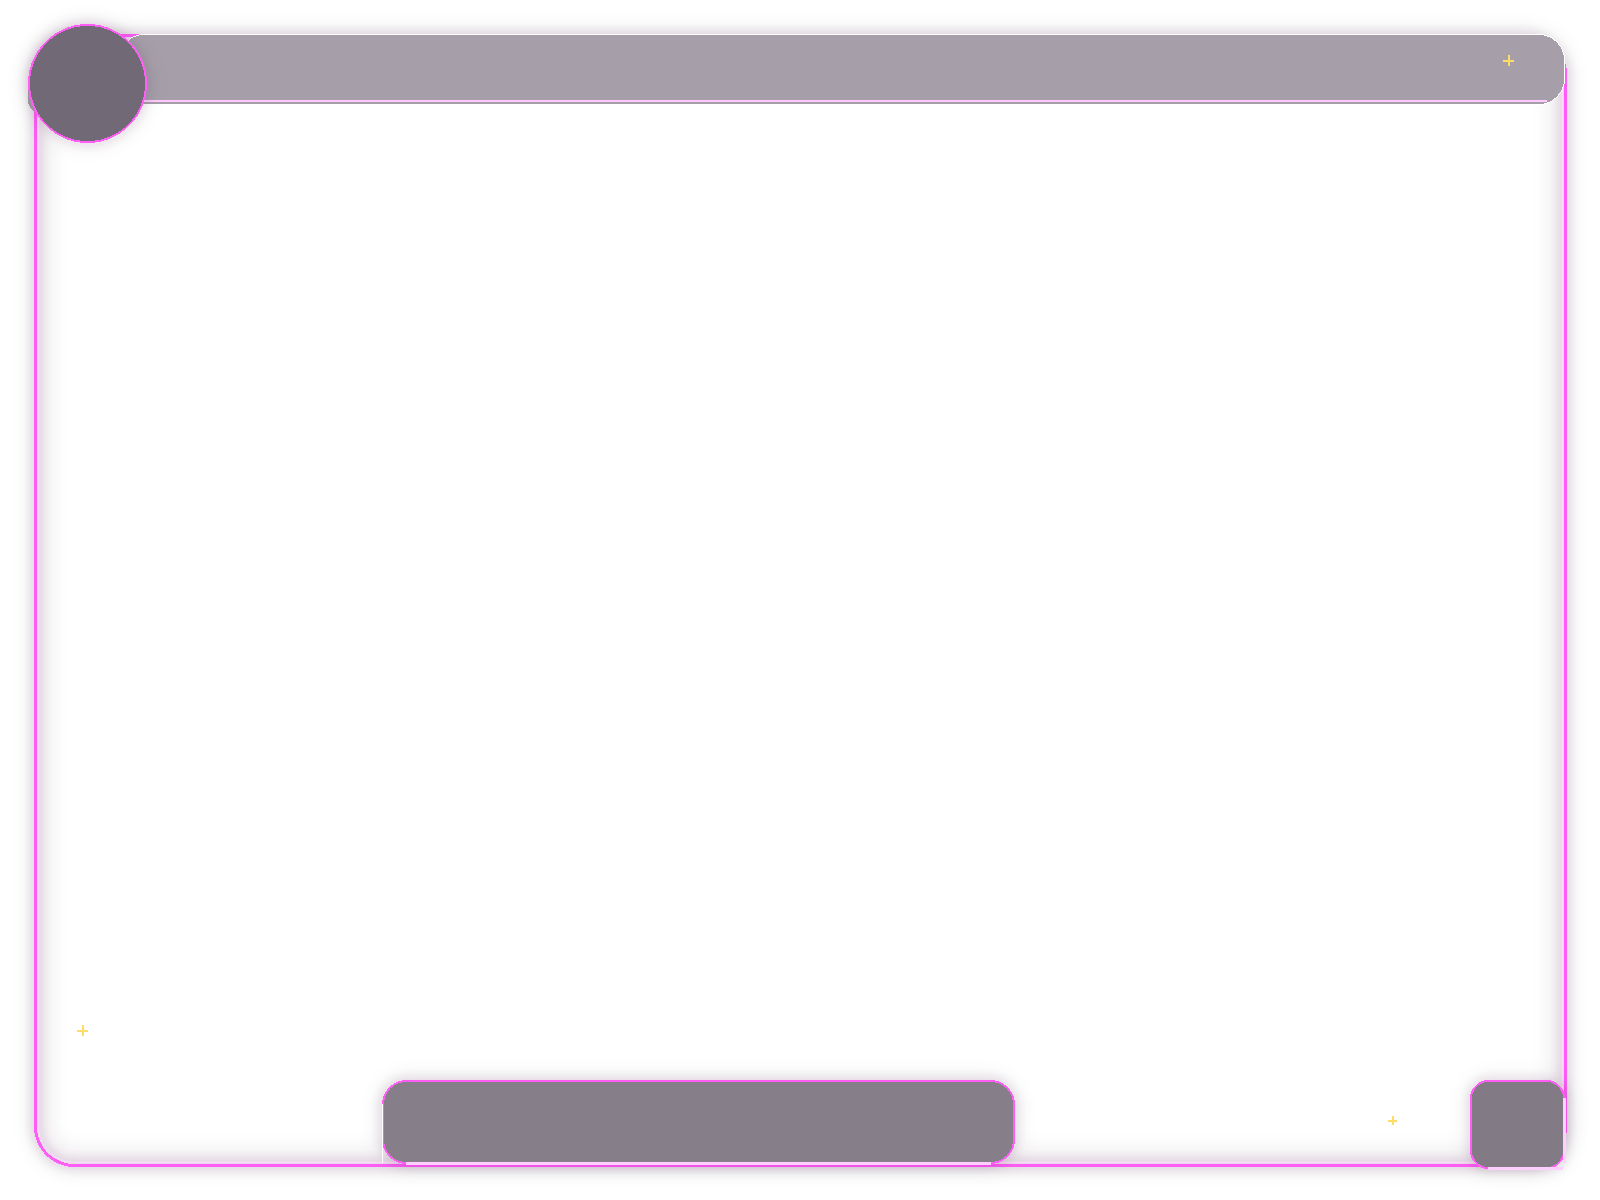
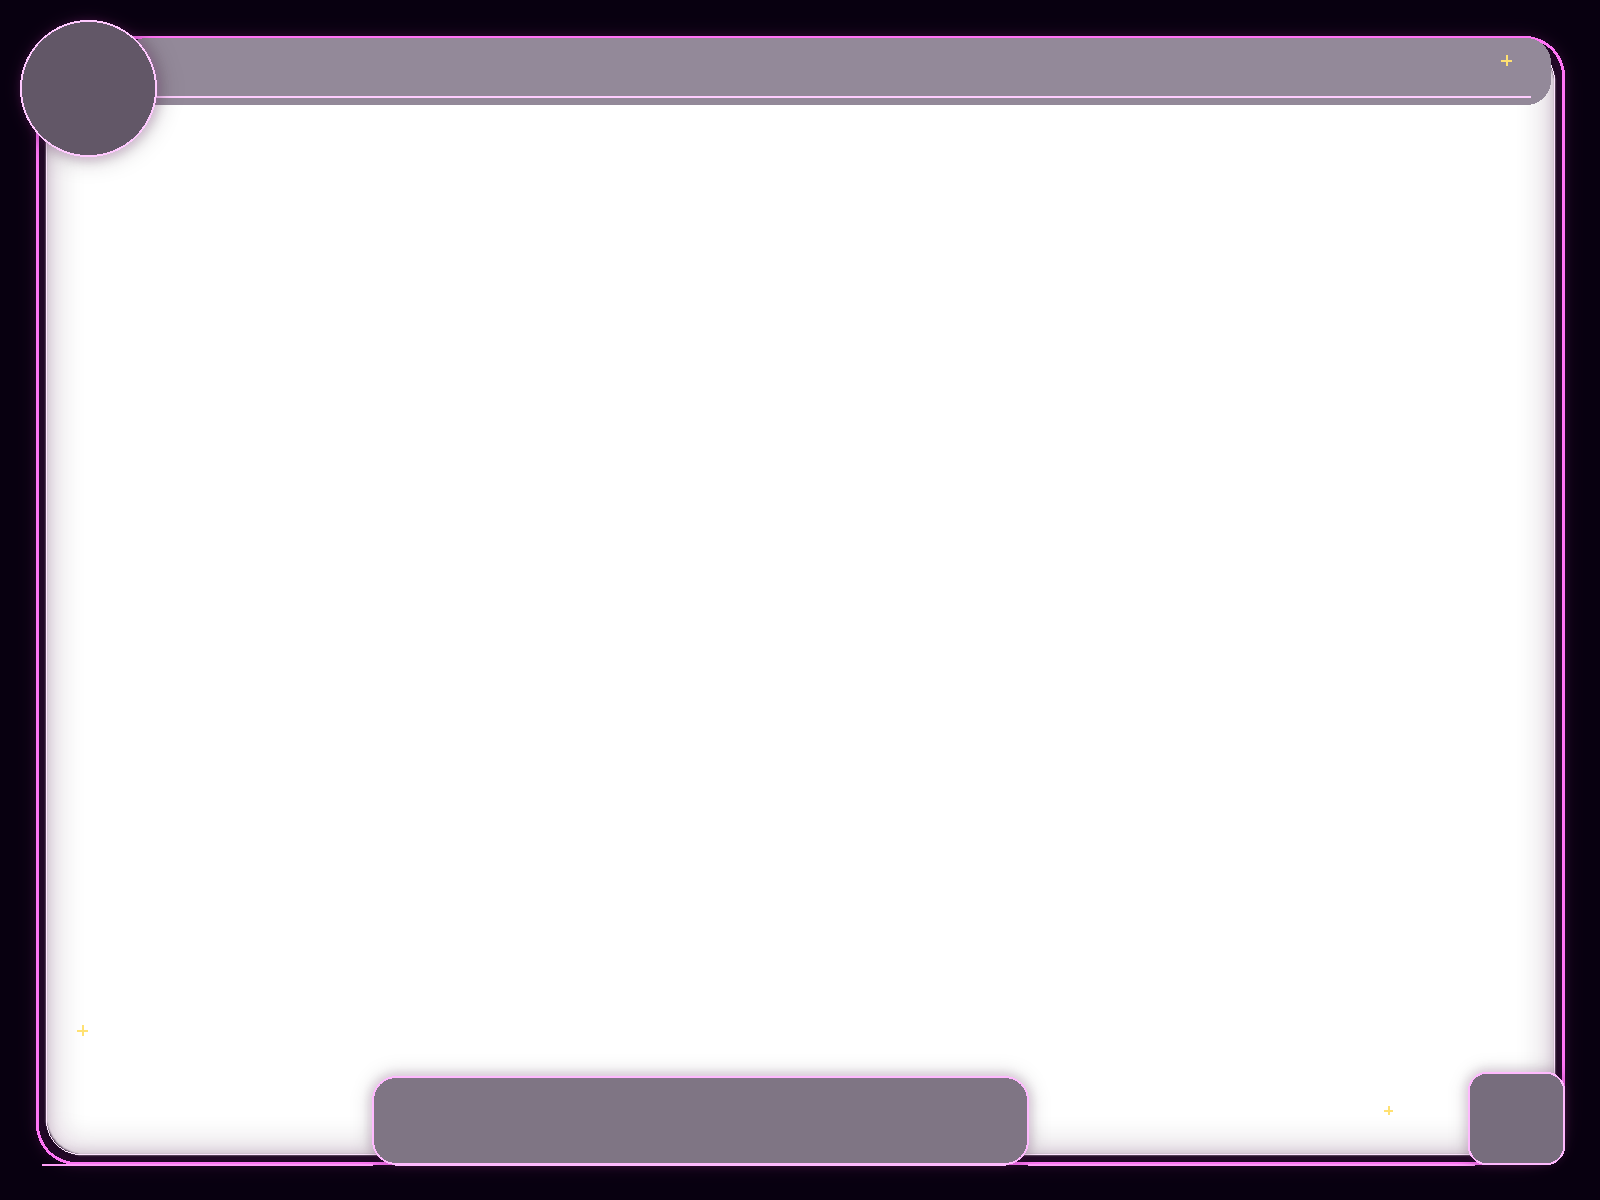
Overlay changes

Changed region(s): [[0.0, 0.0, 1.0, 1.0]]

diff --git a/includes/photo-uploads.php b/includes/photo-uploads.php
@@ -631,21 +631,21 @@ function photo_render_framed_image($sourcePath, $destPath, $event, $orientation 
         $canvas->compositeImage($overlay, Imagick::COMPOSITE_OVER, 0, 0);
 
         $logo = new Imagick($logoPath);
-        $logoSize = $landscape ? 108 : 108;
+        $logoSize = $landscape ? 100 : 100;
         $logo->resizeImage($logoSize, $logoSize, Imagick::FILTER_LANCZOS, 1, true);
-        $logoX = $landscape ? 33 : 32;
-        $logoY = $landscape ? 29 : 26;
+        $logoX = $landscape ? 38 : 36;
+        $logoY = $landscape ? 38 : 36;
         $canvas->compositeImage($logo, Imagick::COMPOSITE_OVER, $logoX, $logoY);
 
         $qr = new Imagick($qrPath);
-        $qrSize = $landscape ? 74 : 68;
+        $qrSize = $landscape ? 72 : 68;
         $qr->resizeImage($qrSize, $qrSize, Imagick::FILTER_POINT, 1, true);
         $qrPad = 6;
         $qrHolder = new Imagick();
         $qrHolder->newImage($qrSize + ($qrPad * 2), $qrSize + ($qrPad * 2), new ImagickPixel('white'));
         $qrHolder->compositeImage($qr, Imagick::COMPOSITE_OVER, $qrPad, $qrPad);
-        $qrX = $landscape ? 1480 : 962;
-        $qrY = $landscape ? 1086 : 1216;
+        $qrX = $landscape ? 1474 : 961;
+        $qrY = $landscape ? 1078 : 1234;
         $canvas->compositeImage($qrHolder, Imagick::COMPOSITE_OVER, $qrX, $qrY);
 
         $fontBold = photo_imagick_font_path(true);
@@ -657,40 +657,40 @@ function photo_render_framed_image($sourcePath, $destPath, $event, $orientation 
         $dateLine = photo_event_date_long($event['event_date'] ?? '');
 
         if ($landscape) {
-            $titleX = 158;
-            $titleY = 78;
-            $titleMaxW = 460;
-            $titleSize = photo_imagick_fit_font_size($canvas, $eventName, $fontBold, 38, $titleMaxW, 24);
+            $titleX = 146;
+            $titleY = 76;
+            $titleMaxW = 430;
+            $titleSize = photo_imagick_fit_font_size($canvas, $eventName, $fontBold, 37, $titleMaxW, 24);
             photo_imagick_draw_text($canvas, $eventName, $titleX, $titleY, $fontBold, $titleSize, '#ffcf40', 'rgba(80,0,40,0.75)', 1, $titleMaxW);
 
             $venueText = 'Venue: ' . ($venueLine !== '' ? $venueLine : 'Dance Thru The Decades');
             $dateText = 'Date: ' . ($dateLine !== '' ? $dateLine : 'TBA');
-            photo_imagick_draw_text($canvas, $venueText, 760, 68, $fontRegular, 18, 'rgba(245,245,255,0.96)', null, 0, 320);
-            photo_imagick_draw_text($canvas, $dateText, 1120, 68, $fontRegular, 18, 'rgba(245,245,255,0.96)', null, 0, 270);
+            photo_imagick_draw_text($canvas, $venueText, 758, 66, $fontRegular, 18, 'rgba(245,245,255,0.96)', null, 0, 310);
+            photo_imagick_draw_text($canvas, $dateText, 1110, 66, $fontRegular, 18, 'rgba(245,245,255,0.96)', null, 0, 255);
 
-            photo_imagick_draw_pill($canvas, 'EVENT PHOTO', 160, 76, $fontBold, 16, 'white', '#f7aaff', 'rgba(12,0,20,0.72)', 22, 34, 175);
+            photo_imagick_draw_pill($canvas, 'EVENT PHOTO', 144, 64, $fontBold, 16, 'white', '#f7aaff', 'rgba(12,0,20,0.72)', 22, 32, 170);
             $creditName = trim((string)$creditName);
             if ($creditName !== '') {
-                photo_imagick_draw_pill($canvas, 'Photo by ' . $creditName, 1238, 76, $fontRegular, 15, 'white', '#f7aaff', 'rgba(12,0,20,0.72)', 18, 34, 190);
+                photo_imagick_draw_pill($canvas, 'Photo by ' . $creditName, 1228, 64, $fontRegular, 15, 'white', '#f7aaff', 'rgba(12,0,20,0.72)', 18, 32, 186);
             }
 
-            photo_imagick_draw_text($canvas, 'Dance Thru The Decades', 698, 1123, $fontBold, 31, '#ffcf40', 'rgba(80,0,40,0.75)', 1, 0, Imagick::ALIGN_CENTER);
-            photo_imagick_draw_text($canvas, '60s  •  70s  •  80s  •  90s  •  00s', 698, 1149, $fontRegular, 17, '#ffcf40', null, 0, 0, Imagick::ALIGN_CENTER);
+            photo_imagick_draw_text($canvas, 'Dance Thru The Decades', 700, 1115, $fontBold, 30, '#ffcf40', 'rgba(80,0,40,0.75)', 1, 0, Imagick::ALIGN_CENTER);
+            photo_imagick_draw_text($canvas, '60s  •  70s  •  80s  •  90s  •  00s', 700, 1143, $fontRegular, 16, '#ffcf40', null, 0, 0, Imagick::ALIGN_CENTER);
         } else {
-            $titleX = 158;
-            $titleY = 84;
-            $titleMaxW = 585;
-            $titleSize = photo_imagick_fit_font_size($canvas, $eventName, $fontBold, 34, $titleMaxW, 22);
+            $titleX = 146;
+            $titleY = 76;
+            $titleMaxW = 565;
+            $titleSize = photo_imagick_fit_font_size($canvas, $eventName, $fontBold, 33, $titleMaxW, 22);
             photo_imagick_draw_text($canvas, $eventName, $titleX, $titleY, $fontBold, $titleSize, '#ffcf40', 'rgba(80,0,40,0.75)', 1, $titleMaxW);
-            photo_imagick_draw_text($canvas, 'Venue: ' . ($venueLine !== '' ? $venueLine : 'Dance Thru The Decades'), 158, 116, $fontRegular, 18, 'rgba(245,245,255,0.96)', null, 0, 585);
-            photo_imagick_draw_text($canvas, 'Date: ' . ($dateLine !== '' ? $dateLine : 'TBA'), 158, 140, $fontRegular, 18, 'rgba(245,245,255,0.96)', null, 0, 585);
-            photo_imagick_draw_pill($canvas, 'EVENT PHOTO', 158, 144, $fontBold, 15, 'white', '#f7aaff', 'rgba(12,0,20,0.72)', 20, 34, 175);
+            photo_imagick_draw_text($canvas, 'Venue: ' . ($venueLine !== '' ? $venueLine : 'Dance Thru The Decades'), 158, 108, $fontRegular, 18, 'rgba(245,245,255,0.96)', null, 0, 565);
+            photo_imagick_draw_text($canvas, 'Date: ' . ($dateLine !== '' ? $dateLine : 'TBA'), 158, 132, $fontRegular, 18, 'rgba(245,245,255,0.96)', null, 0, 565);
+            photo_imagick_draw_pill($canvas, 'EVENT PHOTO', 158, 144, $fontBold, 15, 'white', '#f7aaff', 'rgba(12,0,20,0.72)', 20, 32, 170);
             $creditName = trim((string)$creditName);
             if ($creditName !== '') {
-                photo_imagick_draw_pill($canvas, 'Photo by ' . $creditName, 706, 144, $fontRegular, 14, 'white', '#f7aaff', 'rgba(12,0,20,0.72)', 16, 34, 190);
+                photo_imagick_draw_pill($canvas, 'Photo by ' . $creditName, 700, 144, $fontRegular, 14, 'white', '#f7aaff', 'rgba(12,0,20,0.72)', 16, 32, 186);
             }
-            photo_imagick_draw_text($canvas, 'Dance Thru The Decades', 455, 1250, $fontBold, 28, '#ffcf40', 'rgba(80,0,40,0.75)', 1, 0, Imagick::ALIGN_CENTER);
-            photo_imagick_draw_text($canvas, '60s  •  70s  •  80s  •  90s  •  00s', 455, 1275, $fontRegular, 15, '#ffcf40', null, 0, 0, Imagick::ALIGN_CENTER);
+            photo_imagick_draw_text($canvas, 'Dance Thru The Decades', 462, 1270, $fontBold, 27, '#ffcf40', 'rgba(80,0,40,0.75)', 1, 0, Imagick::ALIGN_CENTER);
+            photo_imagick_draw_text($canvas, '60s  •  70s  •  80s  •  90s  •  00s', 462, 1292, $fontRegular, 14, '#ffcf40', null, 0, 0, Imagick::ALIGN_CENTER);
         }
 
         $canvas->setImageFormat('jpeg');
